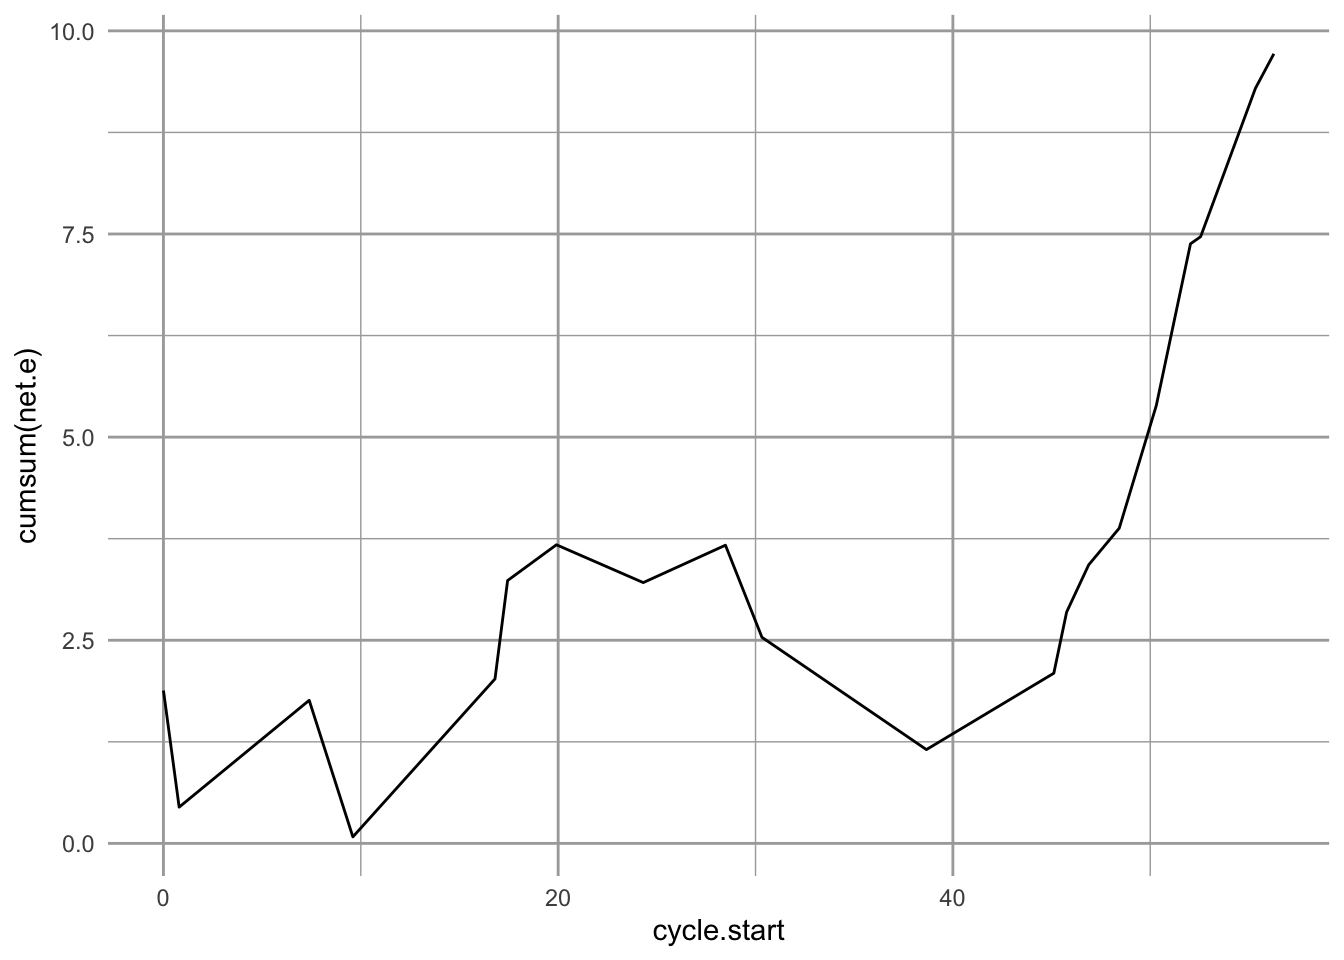
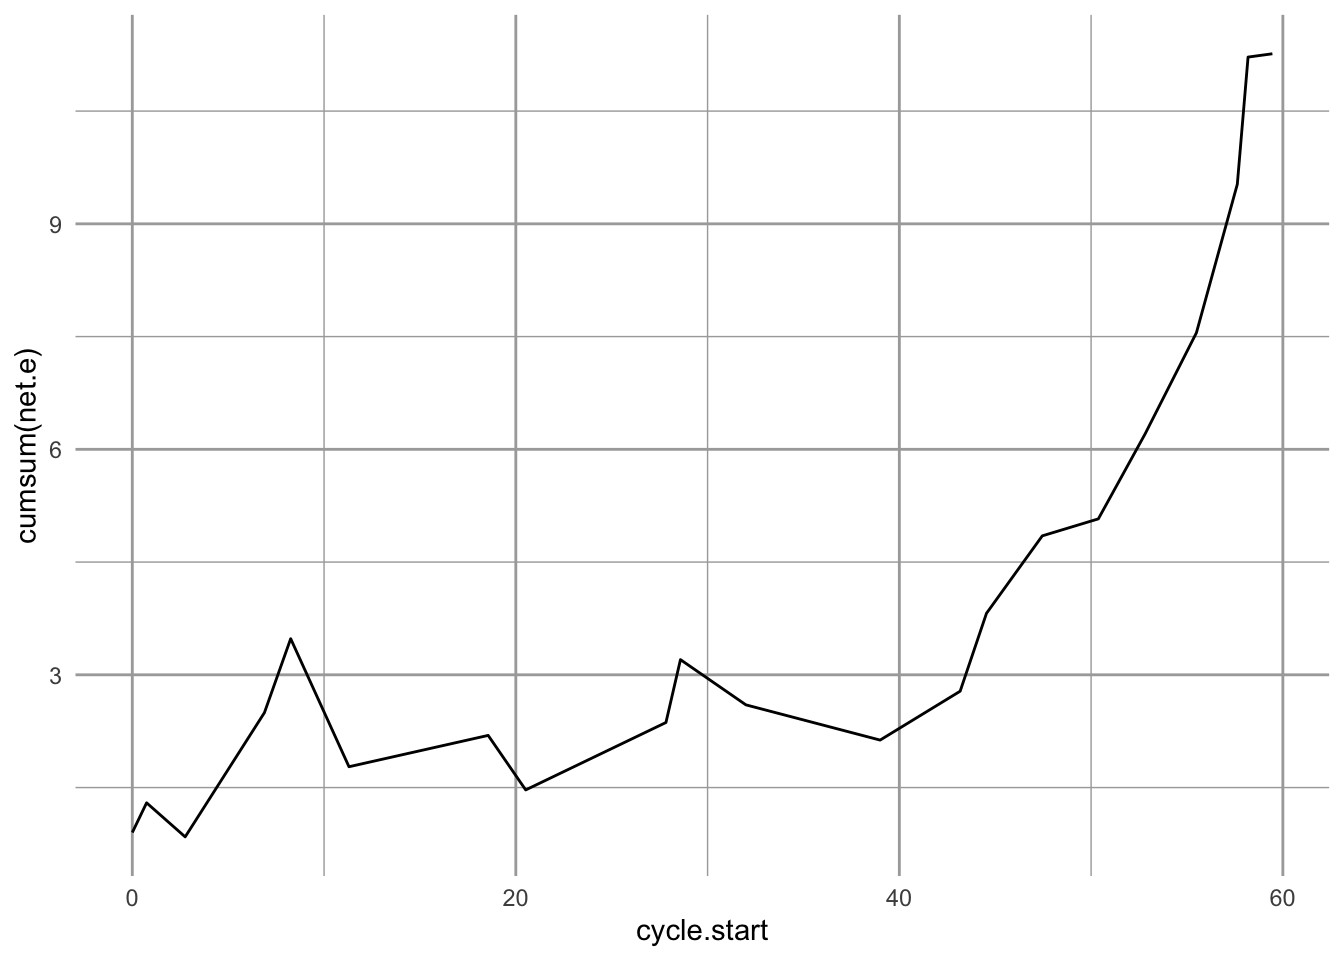
tues last

diff --git a/docs/oft.html b/docs/oft.html
@@ -195,7 +195,7 @@ Figure 2.1: Optimal foraging theory (OFT) generates testable quantitative predic
 <li>the resulting decision rules.</li>
 </ul>
 <p><em>Currency</em> is that quantity that is optimized by the forager. This currency is assumed to be a quantity that limits fitness, such as energy or a particular consumable resource. We measure it as a rate, for instance, as the energy gained per unit time (E/T) or the uptake of a critically limiting resource per unit time (R/T).</p>
-<p><em>Constraints</em> are limitations that we assume about organisms. These might include distances between resource patches, the time and costs associated with extracting a resource from a substrate or subduing prey. They also include constraints imposed by other species including competitors and predators. Constraints can get coplicated quickly; however, simple quanitative theory makes predictions against which we can evaluate more complicated assumptions.</p>
+<p><em>Constraints</em> are limitations that we assume about organisms. These might include distances between resource patches, the time and costs associated with extracting a resource from a substrate or subduing prey. They also include constraints imposed by other species including competitors and predators. Constraints can get complicated quickly; however, simple quantitative theory makes predictions against which we can evaluate more complicated assumptions.</p>
 <p><em>Decision rules</em> are what we ascribed to a forager’s choices. A decision rule concern the probability of attacking prey if encountered, or when to leave one resource patch in order to search for another.</p>
 <p>An additional way to think about all this is <em>where, when, and what.</em> A great deal of effort has focused on understanding patch use: <em>where</em> foragers should explore for resources, and <em>when</em> they should give up and go in search of another patch <span class="citation">(Charnov <a href="#ref-Charnov1976b" role="doc-biblioref">1976</a>)</span>. These are <strong>patch use</strong> models, and are based on economic models and the marginal value theorem.</p>
 <p>Another avenue of inquiry concerns <em>what</em> animals should eat. For instance, should they go after big prey that may be hard to catch and difficult to subdue, or just snack on what is easy? These are <strong>prey models</strong> or diet models, and attempt to explain why organisms consume <em>what</em> they do.</p>
@@ -221,6 +221,7 @@ where <span class="math inline">\(e_i\)</span> is the energy in an item of type 
 </div>
 <div id="mathematical-support" class="section level3">
 <h3><span class="header-section-number">2.1.2</span> Mathematical support</h3>
+<p>One of the reasons to represent ideas mathematically is that we make concrete assumptions, and then the math can tell us what the predictions are. That is what we will do here.</p>
 <p>Let’s assume that natural selection tends to maximize the currency as Gain per unit Time, <span class="math inline">\(G/T\)</span>. Our model will use these parameters and variables:</p>
 <ul>
 <li><span class="math inline">\(i =\)</span> index for prey type</li>
@@ -316,10 +317,8 @@ where <span class="math inline">\(t_t + t_r\)</span> is the total time from leav
 <p>When <span class="math inline">\(t_r\)</span> is too short, <span class="math inline">\(R\)</span> is not yet maximizes. When <span class="math inline">\(t_r\)</span> is too long, <span class="math inline">\(R\)</span> begins to decline. Because <span class="math inline">\(R\)</span> is hump-shaped, we can use calculus to find its maximum. This will occur when its slope is zero, and the slope of a function, <span class="math inline">\(F\)</span>, is its derivative, <span class="math inline">\(F^\prime\)</span>. If we asssume that travel time is constant, then we can take the partial derivative of <span class="math inline">\(R\)</span> with respect to just the residence time, <span class="math inline">\(t_r\)</span>, <span class="math inline">\(\delta R / \delta t_r\)</span>. First, recall the product rule of differentiation:
 <span class="math display">\[F(x) = g(x)f(x)\quad ; \quad F^\prime(x) =f^\prime(x)g(x) +  f(x)g^\prime(x)\]</span>
 With that we can find the necessary derivative.
-<span class="math display">\[\frac{\delta R}{\delta t_r} = - \frac{1}{(t_t+t_r)^2} g(t_r) + \frac{1}{t_t+t_r}g^\prime(t_r)= \frac{(t_t+t_r)g^\prime(t_r) - g(t)}{(t_t+t_r)^2}\]</span>
-If we solved <span class="math inline">\(\delta R / \delta t_r = 0\)</span>, we would discover that <span class="math inline">\(R\)</span> will be maximized when it equals the <em>slope</em> of gain function. That is,
-<span class="math display">\[\frac{g(t_r)}{t_t + t_r} = g^\prime(t_r)\]</span></p>
-<p>This predicts that in order to maximize the long-term average rate, we should stay in a patch until the instantaneous rate, <span class="math inline">\(g^\prime(t_r)\)</span> drops to the long term average rate, <span class="math inline">\(R\)</span>.</p>
+<span class="math display">\[\frac{\delta R}{\delta t_r} = - \frac{1}{(t_t+t_r)^2} g(t_r) + \frac{1}{t_t+t_r}g^\prime(t_r)= g^\prime(t_r) - \frac{g(t_r)}{t_t+t_r}=0\]</span>
+Because this derivative equals zero when the slope of the gain function (<span class="math inline">\(g^\prime(t_r)\)</span>) equals <span class="math inline">\(R\)</span>, that tells use that <span class="math inline">\(R\)</span> is maximized at that point. Therefore, it predicts that in order to maximize the long-term average rate, we should stay in a patch until the instantaneous rate, <span class="math inline">\(g^\prime(t_r)\)</span> drops to the long term average rate, <span class="math inline">\(R\)</span> (Fig. <a href="oft.html#fig:marginal">2.5</a>).</p>
 <div class="figure"><span id="fig:marginal"></span>
 <img src="figs/marginal-value.jpg" alt="Energy gain vs. time: The origin is when the forager enters the patch; to the left is time spent traveling from one patch to the next, and to the right is time spent in the patch. The graph represents two different habitats, one in which the patches are easy to get to (habitat 1), and another where it takes more time to get from patch to patch (habitat 2). In all cases, the patches are identical, having the same gain function. The curved line is the gain function, the net energy gain as a function of time spent in the patch. The slope of that curve is the derivative of the gain function. Its slope at any single time point is the instantaneous rate of gain. The two straight lines are the expected gains averaged over time for each habitat as a whole. Lambda is the rate at which a forager randomly encounters patches - because it is a Poisson process, the mean or expected time is 1/lambda. The forager should leave the patch when the instantaneous rate of gain in the patch equals the long term average rate of gain for the habitat as a whole." width="100%" />
 <p class="caption">
@@ -402,12 +401,12 @@ Figure 2.5: Energy gain vs. time: The origin is when the forager enters the pat
 <div class="sourceCode" id="cb9"><pre class="sourceCode r"><code class="sourceCode r"><span id="cb9-1"><a href="oft.html#cb9-1"></a>myOut &lt;-<span class="st"> </span><span class="kw">optimal.forager</span>(<span class="dt">Total=</span><span class="dv">60</span>)</span>
 <span id="cb9-2"><a href="oft.html#cb9-2"></a><span class="kw">str</span>(myOut)</span></code></pre></div>
 <pre><code>## List of 5
-##  $ N     : num 20
-##  $ G     : num 9.72
-##  $ Tt    : num 60.7
-##  $ series:&#39;data.frame&#39;:	20 obs. of  2 variables:
-##   ..$ net.e      : num [1:20] 1.88 -1.44 1.31 -1.68 1.94 ...
-##   ..$ cycle.start: num [1:20] 0 0.796 7.385 9.599 16.8 ...
+##  $ N     : num 21
+##  $ G     : num 11.3
+##  $ Tt    : num 62.3
+##  $ series:&#39;data.frame&#39;:	21 obs. of  2 variables:
+##   ..$ net.e      : num [1:21] 0.902 0.395 -0.453 1.652 0.984 ...
+##   ..$ cycle.start: num [1:21] 0 0.746 2.758 6.89 8.26 ...
 ##  $ params:List of 7
 ##   ..$ e     : num [1:2] 2 1
 ##   ..$ h     : num [1:2] 0.5 0.5
